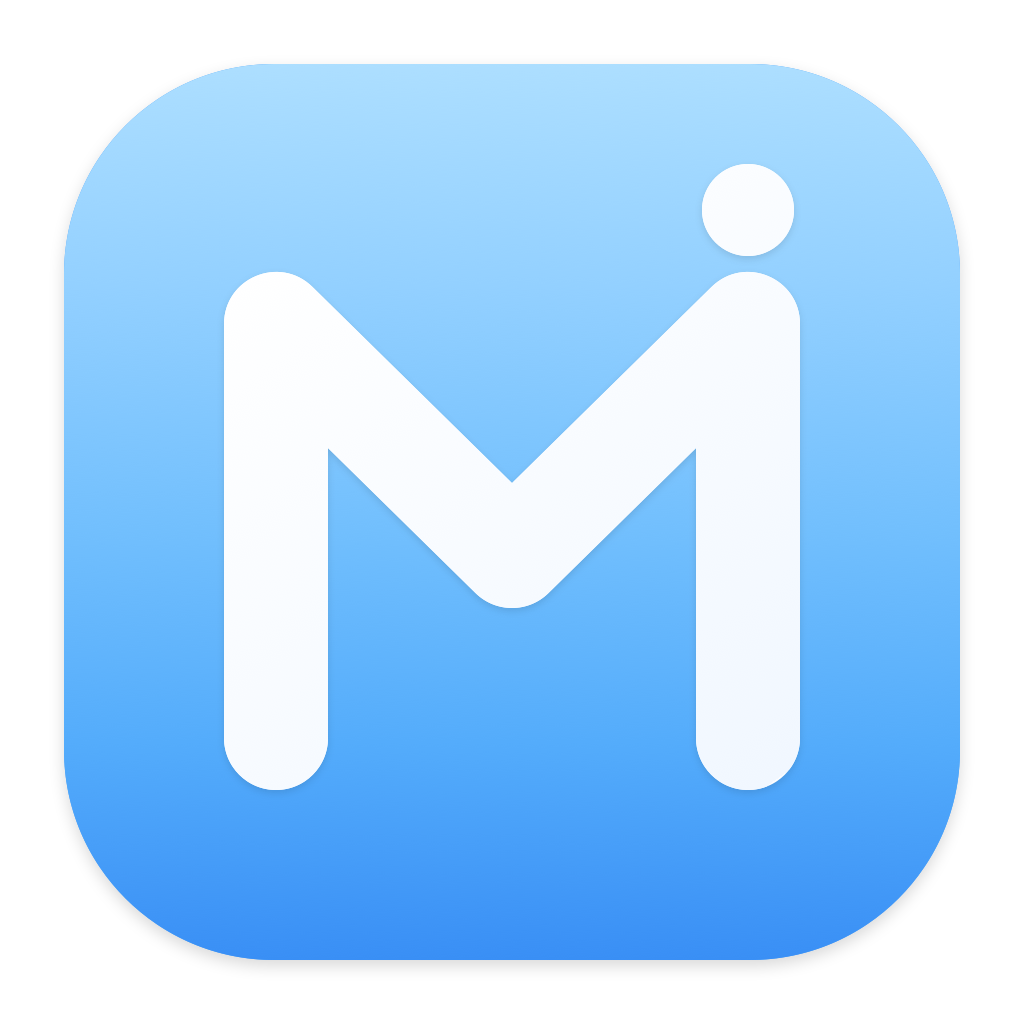
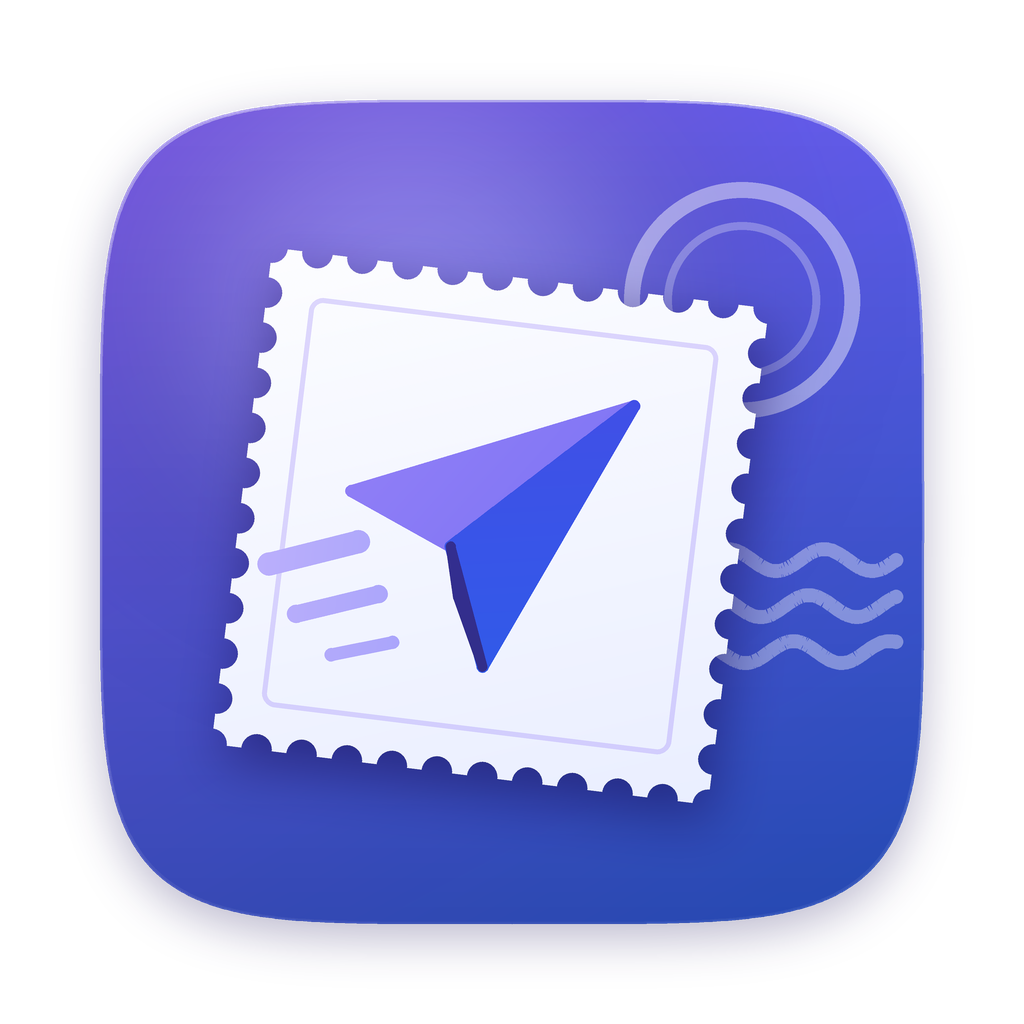
feat: 全新设计应用图标（迷你邮票 + 纸飞机），附图标生成脚本与资源校验测试

diff --git a/scripts/icon/gen_icon.py b/scripts/icon/gen_icon.py
@@ -1,0 +1,217 @@
+#!/usr/bin/env python3
+"""生成 MiniPost 应用图标 resources/icon.png（1024x1024）。
+
+设计概念：Mini + Post = “迷你邮票”。
+  - 靛紫到电蓝的渐变圆角方块作底，背后露出半枚邮戳（圆环 + 波浪消印线）；
+  - 一枚带锯齿孔的白色邮票微微倾斜，邮票中央是一架双色纸飞机（发送请求）；
+  - 纸飞机身后拖着三道圆头短线，象征请求飞出去的速度感。
+
+依赖：Pillow、numpy。用法：python3 scripts/icon/gen_icon.py [输出路径]
+内部以 3 倍超采样绘制，最后缩回 1024 以获得平滑边缘。
+"""
+import math
+import sys
+
+import numpy as np
+from PIL import Image, ImageChops, ImageDraw, ImageFilter
+
+OUT = sys.argv[1] if len(sys.argv) > 1 else "resources/icon.png"
+SIZE = 1024
+SS = 3  # 超采样倍数
+W = SIZE * SS
+
+
+def px(v):
+    """把 1024 画布上的长度换成超采样画布上的像素。"""
+    return v * SS
+
+
+def hex_rgb(h):
+    h = h.lstrip("#")
+    return tuple(int(h[i : i + 2], 16) for i in (0, 2, 4))
+
+
+def gradient(size, c0, c1, angle_deg=90.0):
+    """线性渐变图。angle=90 表示从上到下；0 表示从左到右。"""
+    w, h = size
+    a = math.radians(angle_deg)
+    dx, dy = math.cos(a), math.sin(a)
+    ys, xs = np.mgrid[0:h, 0:w].astype(np.float32)
+    t = ((xs - w / 2) * dx + (ys - h / 2) * dy) / (abs(w * dx) + abs(h * dy)) + 0.5
+    t = np.clip(t, 0, 1)[..., None]
+    a0 = np.array(hex_rgb(c0) if isinstance(c0, str) else c0, np.float32)
+    a1 = np.array(hex_rgb(c1) if isinstance(c1, str) else c1, np.float32)
+    img = (a0 * (1 - t) + a1 * t).astype(np.uint8)
+    return Image.fromarray(img, "RGB").convert("RGBA")
+
+
+def squircle_mask(size, margin, n=5.0):
+    """苹果风格的超椭圆（squircle）蒙版。"""
+    m = Image.new("L", (size, size), 0)
+    r = (size - 2 * margin) / 2
+    c = size / 2
+    pts = []
+    for i in range(720):
+        th = i / 720 * 2 * math.pi
+        ct, st = math.cos(th), math.sin(th)
+        x = c + r * math.copysign(abs(ct) ** (2 / n), ct)
+        y = c + r * math.copysign(abs(st) ** (2 / n), st)
+        pts.append((x, y))
+    ImageDraw.Draw(m).polygon(pts, fill=255)
+    return m
+
+
+def rounded_poly_mask(size, pts, radius):
+    """带圆角的多边形蒙版：填充 + 顶点画圆 + 边描粗线。"""
+    m = Image.new("L", (size, size), 0)
+    d = ImageDraw.Draw(m)
+    d.polygon(pts, fill=255)
+    for i, p in enumerate(pts):
+        q = pts[(i + 1) % len(pts)]
+        d.line([p, q], fill=255, width=int(radius * 2))
+        d.ellipse([p[0] - radius, p[1] - radius, p[0] + radius, p[1] + radius], fill=255)
+    return m
+
+
+def paste_masked(base, layer, mask):
+    base.alpha_composite(Image.composite(layer, Image.new("RGBA", layer.size, (0, 0, 0, 0)), mask))
+
+
+def shadow(mask, blur, offset, color, opacity):
+    """由蒙版生成柔和投影图层。"""
+    sh = Image.new("RGBA", mask.size, color + (0,))
+    a = mask.point(lambda v: int(v * opacity))
+    a = ImageChops.offset(a, offset[0], offset[1]).filter(ImageFilter.GaussianBlur(blur))
+    sh.putalpha(a)
+    return sh
+
+
+# ---------- 1. 底板：靛紫 → 电蓝渐变 + 柔光 ----------
+canvas = Image.new("RGBA", (W, W), (0, 0, 0, 0))
+margin = px(100)  # 遵循 macOS 图标网格：824 的内容区，四周留 100
+sq = squircle_mask(W, margin)
+
+bg = gradient((W, W), "#8B5CF6", "#2563EB", 62)
+glow = Image.new("RGBA", (W, W), (0, 0, 0, 0))
+gd = ImageDraw.Draw(glow)
+gd.ellipse([px(120), px(40), px(700), px(560)], fill=(255, 255, 255, 70))
+glow = glow.filter(ImageFilter.GaussianBlur(px(110)))
+bg.alpha_composite(glow)
+# 底部压暗，增加层次
+dark = gradient((W, W), (0, 0, 0), (0, 0, 0), 90)
+dark.putalpha(Image.fromarray((np.linspace(0, 70, W, dtype=np.uint8)[:, None] * np.ones((1, W), np.uint8))))
+bg.alpha_composite(dark)
+
+canvas.alpha_composite(shadow(sq, px(22), (0, px(14)), (30, 20, 90), 0.30))
+paste_masked(canvas, bg, sq)
+
+# 用于把后续元素裁在底板内的蒙版
+clip = sq
+
+# ---------- 2. 背后的邮戳：圆环 + 三道波浪线 ----------
+postmark = Image.new("RGBA", (W, W), (0, 0, 0, 0))
+pd = ImageDraw.Draw(postmark)
+cx, cy, rr = px(742), px(300), px(118)
+pd.ellipse([cx - rr, cy - rr, cx + rr, cy + rr], outline=(255, 255, 255, 110), width=int(px(16)))
+rr2 = px(78)
+pd.ellipse([cx - rr2, cy - rr2, cx + rr2, cy + rr2], outline=(255, 255, 255, 70), width=int(px(8)))
+for k in range(3):
+    y0 = px(560 + k * 46)
+    pts = []
+    for i in range(0, 241):
+        x = px(560) + px(i) * 1.4
+        y = y0 + math.sin(i / 240 * 3.5 * 2 * math.pi + k) * px(11)
+        pts.append((x, y))
+    pd.line(pts, fill=(255, 255, 255, 95), width=int(px(14)), joint="curve")
+    for p in (pts[0], pts[-1]):
+        pd.ellipse([p[0] - px(7), p[1] - px(7), p[0] + px(7), p[1] + px(7)], fill=(255, 255, 255, 95))
+pm_alpha = ImageChops.multiply(postmark.getchannel("A"), clip)
+postmark.putalpha(pm_alpha)
+canvas.alpha_composite(postmark)
+
+# ---------- 3. 邮票：白色纸张 + 锯齿孔，微微倾斜 ----------
+stamp_size = px(500)
+pad = px(60)  # 给旋转留余量
+st_w = int(stamp_size + pad * 2)
+stamp = Image.new("L", (st_w, st_w), 0)
+sd = ImageDraw.Draw(stamp)
+x0 = y0 = pad
+x1 = y1 = pad + stamp_size
+sd.rounded_rectangle([x0, y0, x1, y1], radius=px(18), fill=255)
+# 锯齿孔：沿四边等距挖半圆
+holes = 11
+hr = px(15)
+step = stamp_size / holes
+for i in range(holes + 1):
+    t = i * step
+    for (hx, hy) in ((x0 + t, y0), (x0 + t, y1), (x0, y0 + t), (x1, y0 + t)):
+        sd.ellipse([hx - hr, hy - hr, hx + hr, hy + hr], fill=0)
+
+paper = gradient((st_w, st_w), "#FFFFFF", "#E8EDFF", 70)
+# 邮票内框：一圈细淡色描边，增加“票面”感
+inner = Image.new("L", (st_w, st_w), 0)
+idr = ImageDraw.Draw(inner)
+inset = px(44)
+idr.rounded_rectangle([x0 + inset, y0 + inset, x1 - inset, y1 - inset], radius=px(14), outline=255, width=int(px(5)))
+tint = Image.new("RGBA", (st_w, st_w), (124, 92, 246, 60))
+paste_masked(paper, tint, inner)
+
+# ---------- 4. 纸飞机（画在邮票票面上） ----------
+def plane_pts(pts, ox, oy, s):
+    return [(ox + x * s, oy + y * s) for x, y in pts]
+
+cxs = (x0 + x1) / 2
+cys = (y0 + y1) / 2
+s = px(3.3)  # 100 单位坐标 → 像素
+ox = cxs - 50 * s - px(10)
+oy = cys - 50 * s + px(2)
+upper = plane_pts([(92, 8), (10, 44), (42, 57)], ox, oy, s)
+lower = plane_pts([(92, 8), (42, 57), (56, 92)], ox, oy, s)
+fold = plane_pts([(42, 57), (56, 92), (46, 72)], ox, oy, s)
+rad = px(6)
+
+m_upper = rounded_poly_mask(st_w, upper, rad)
+m_lower = rounded_poly_mask(st_w, lower, rad)
+m_fold = rounded_poly_mask(st_w, fold, rad * 0.8)
+paste_masked(paper, gradient((st_w, st_w), "#A78BFA", "#6366F1", 35), m_upper)
+paste_masked(paper, gradient((st_w, st_w), "#4F46E5", "#2563EB", 80), m_lower)
+paste_masked(paper, gradient((st_w, st_w), "#3730A3", "#312E81", 90), m_fold)
+
+# 速度线：飞机身后三道圆头短线
+for (ax, ay, bx, by, wd) in [(-12, 69, 14, 59, 7), (-2, 83, 22, 74, 5.5), (10, 94, 28, 88, 4)]:
+    a = (ox + ax * s, oy + ay * s)
+    b = (ox + bx * s, oy + by * s)
+    lm = Image.new("L", (st_w, st_w), 0)
+    ld = ImageDraw.Draw(lm)
+    ld.line([a, b], fill=255, width=int(wd * s))
+    for p in (a, b):
+        r = wd * s / 2
+        ld.ellipse([p[0] - r, p[1] - r, p[0] + r, p[1] + r], fill=255)
+    paste_masked(paper, gradient((st_w, st_w), "#C4B5FD", "#818CF8", 0), lm)
+
+stamp_rgba = Image.new("RGBA", (st_w, st_w), (0, 0, 0, 0))
+paste_masked(stamp_rgba, paper, stamp)
+stamp_mask = stamp
+angle = -7
+stamp_rgba = stamp_rgba.rotate(angle, resample=Image.BICUBIC, center=(st_w / 2, st_w / 2))
+stamp_mask = stamp_mask.rotate(angle, resample=Image.BICUBIC, center=(st_w / 2, st_w / 2))
+
+# 放到画布中央偏左下一点，给右上的邮戳让位
+pos = (int(W / 2 - st_w / 2 - px(22)), int(W / 2 - st_w / 2 + px(14)))
+layer = Image.new("RGBA", (W, W), (0, 0, 0, 0))
+layer.paste(stamp_rgba, pos, stamp_rgba)
+mask_full = Image.new("L", (W, W), 0)
+mask_full.paste(stamp_mask, pos)
+canvas.alpha_composite(shadow(mask_full, px(26), (px(6), px(22)), (25, 15, 85), 0.55))
+canvas.alpha_composite(layer)
+
+# ---------- 5. 底板高光边 ----------
+rim = ImageChops.subtract(sq, sq.filter(ImageFilter.MinFilter(int(px(5)) | 1)))
+rim_layer = Image.new("RGBA", (W, W), (255, 255, 255, 0))
+top_fade = Image.fromarray((np.linspace(110, 0, W, dtype=np.uint8)[:, None] * np.ones((1, W), np.uint8)))
+rim_layer.putalpha(ImageChops.multiply(rim, top_fade))
+canvas.alpha_composite(rim_layer)
+
+out = canvas.resize((SIZE, SIZE), Image.LANCZOS)
+out.save(OUT, optimize=True)
+print("已生成", OUT, out.size)

diff --git a/app_icon_test.go b/app_icon_test.go
@@ -1,0 +1,39 @@
+package main
+
+import (
+	"image/png"
+	"os"
+	"testing"
+)
+
+// 应用图标必须是 1024x1024 的 PNG：四角透明（圆角方块）、中心不透明，
+// 并且不是纯色图（防止误提交空白或占位图标）。
+func TestAppIconAsset(t *testing.T) {
+	f, err := os.Open("resources/icon.png")
+	if err != nil {
+		t.Fatal(err)
+	}
+	defer f.Close()
+	img, err := png.Decode(f)
+	if err != nil {
+		t.Fatalf("图标不是合法 PNG: %v", err)
+	}
+	if b := img.Bounds(); b.Dx() != 1024 || b.Dy() != 1024 {
+		t.Fatalf("图标应为 1024x1024，实际 %dx%d", b.Dx(), b.Dy())
+	}
+	alpha := func(x, y int) uint32 { _, _, _, a := img.At(x, y).RGBA(); return a >> 8 }
+	for _, p := range [][2]int{{0, 0}, {1023, 0}, {0, 1023}, {1023, 1023}} {
+		if a := alpha(p[0], p[1]); a != 0 {
+			t.Errorf("四角应透明，(%d,%d) alpha=%d", p[0], p[1], a)
+		}
+	}
+	if a := alpha(512, 512); a != 255 {
+		t.Errorf("中心应不透明，alpha=%d", a)
+	}
+	// 取样多个点的颜色，至少应有明显差异（渐变底 + 白色邮票）
+	r1, g1, b1, _ := img.At(160, 200).RGBA()
+	r2, g2, b2, _ := img.At(400, 600).RGBA()
+	if r1 == r2 && g1 == g2 && b1 == b2 {
+		t.Error("图标看起来是纯色图")
+	}
+}
